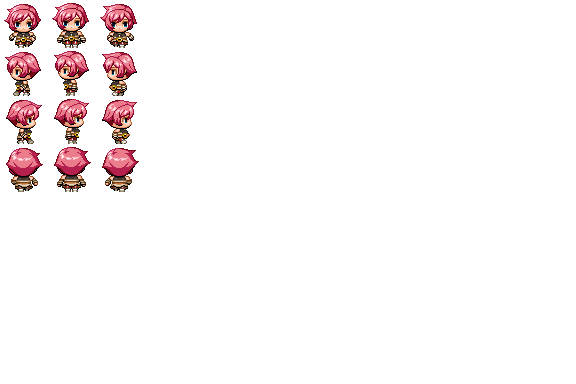
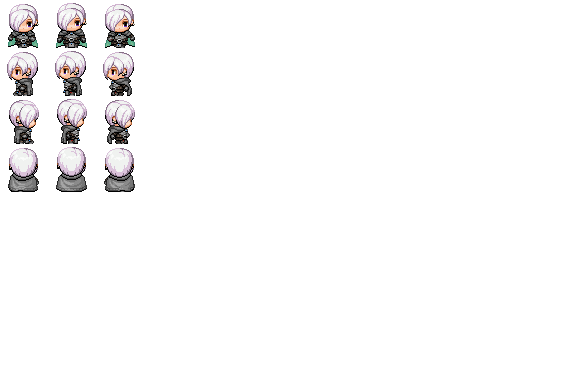
finish with hero move and optimaze setinterval

Changed region(s): [[0.0, 0.0, 0.25, 0.5]]

diff --git a/src/index.js b/src/index.js
@@ -1,9 +1,164 @@
 import './index.scss';
+import Hero from './assets/main-character.png';
+
+const gameField = document.querySelector('.canvas-wrap');
+const loadingTag = document.querySelector('.canvas-wrap h3');
 
 const canvas = document.getElementById('game');
-
 const ctx = canvas.getContext('2d');
 
-ctx.strokeStyle = 'red';
-ctx.lineWidht = 5;
-ctx.strokeRect(20, 20, 200, 100);
+const imgHero = document.createElement('img');
+imgHero.src = Hero;
+const heroW = 48;
+const heroH = 48;
+let profileHero = 0;
+
+const shots = 3;
+let cycle = 0;
+let bottomPressed = false;
+let upPressed = false;
+let leftPressed = false;
+let rightPressed = false;
+let pX = 275;
+let pY = 270;
+let prevX = pX;
+let prevY = pY;
+
+ctx.strokeStyle = 'black';
+ctx.lineWidth = 1;
+ctx.fillStyle = 'green';
+
+ctx.fill();
+ctx.stroke();
+
+let interval;
+let isIntervalRun = false;
+
+function startInterval() {
+  isIntervalRun = true;
+  interval = setInterval(() => {
+    if (bottomPressed && pY <= 540) {
+      [prevX, prevY] = [pX, pY];
+      pY += 10;
+      cycle = (cycle + 1) % shots;
+    } else if (upPressed && pY >= 10) {
+      [prevX, prevY] = [pX, pY];
+      pY -= 10;
+      cycle = (cycle + 1) % shots;
+    } else if (leftPressed && pX >= 0) {
+      [prevX, prevY] = [pX, pY];
+      pX -= 10;
+      cycle = (cycle + 1) % shots;
+    } else if (rightPressed && pX <= 560) {
+      [prevX, prevY] = [pX, pY];
+      pX += 10;
+      cycle = (cycle + 1) % shots;
+    }
+    ctx.clearRect(prevX, prevY, 48, 48);
+    ctx.drawImage(
+      imgHero,
+      cycle * heroW,
+      profileHero,
+      heroW,
+      heroH,
+      pX,
+      pY,
+      48,
+      48,
+    );
+  }, 100);
+}
+
+function stopInterval() {
+  isIntervalRun = false;
+  clearInterval(interval);
+}
+
+function keyDownHandler({ keyCode }) {
+  if (!isIntervalRun) startInterval();
+  switch (keyCode) {
+    case 40:
+      bottomPressed = true;
+      profileHero = 0;
+      break;
+    case 38:
+      upPressed = true;
+      profileHero = 144;
+      break;
+    case 37:
+      leftPressed = true;
+      profileHero = 48;
+      break;
+    case 39:
+      rightPressed = true;
+      profileHero = 96;
+      break;
+    default:
+      break;
+  }
+}
+
+function keyUpHandler({ keyCode }) {
+  if (isIntervalRun) stopInterval();
+  switch (keyCode) {
+    case 40:
+      bottomPressed = false;
+      break;
+    case 38:
+      upPressed = false;
+      break;
+    case 37:
+      leftPressed = false;
+      break;
+    case 39:
+      rightPressed = false;
+      break;
+    default:
+      break;
+  }
+}
+
+imgHero.addEventListener('load', () => {
+  gameField.style.backgroundColor = '#3A8355';
+  loadingTag.style.display = 'none';
+  ctx.drawImage(
+    imgHero,
+    cycle * heroW,
+    profileHero,
+    heroW,
+    heroH,
+    pX,
+    pY,
+    48,
+    48,
+  );
+  document.addEventListener('keydown', keyDownHandler);
+  document.addEventListener('keyup', keyUpHandler);
+});
+// ctx.strokeStyle = 'red';
+// ctx.lineWidht = 5;
+// ctx.strokeRect(20, 20, 200, 100);
+
+// ctx.fillStyle = 'white';
+// ctx.fillRect(500, 500, 150, 300);
+
+// ctx.beginPath();
+// ctx.moveTo(100, 100);
+// ctx.lineTo(500, 100);
+
+// ctx.strokeStyle = 'black';
+// ctx.lineWidth = 2;
+// ctx.stroke();
+
+// ctx.moveTo(100, 500);
+// ctx.lineTo(500, 500);
+// ctx.strokeStyle = 'black';
+// ctx.lineWidth = 2;
+// ctx.stroke();
+
+// ctx.beginPath();
+// ctx.moveTo(50, 50);
+// ctx.lineTo(100, 50);
+// ctx.lineTo(100, 200);
+// ctx.lineTo(50, 200);
+// ctx.lineTo(50, 50);

diff --git a/public/index.html b/public/index.html
@@ -10,7 +10,7 @@
     <div class="wrap">
       <div class="logo"></div>
       <div class="canvas-wrap">
-        <canvas id="game" widht="600" height="600"></canvas>
+        <canvas id="game" width="600" height="600"></canvas>
         <h3>Loading...</h3>
         <div class="border">
           <div class="top-left"></div>

diff --git a/webpack.config.js b/webpack.config.js
@@ -12,7 +12,7 @@ module.exports = {
     sourceMapFilename: 'main.js.map',
   },
   devtool: NODE_ENV === 'development' ? 'source-map' : false,
-  watch: NODE_ENV === 'development',
+  watch: NODE_ENV ? NODE_ENV === 'development' : true,
   watchOptions: {
     ignored: /node_modules/,
     poll: 1000,
